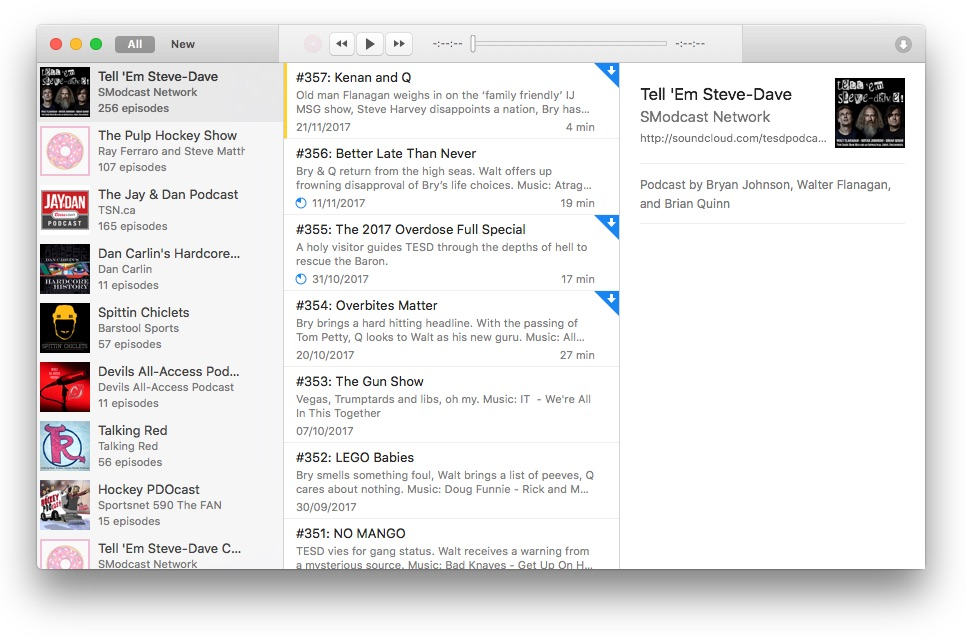
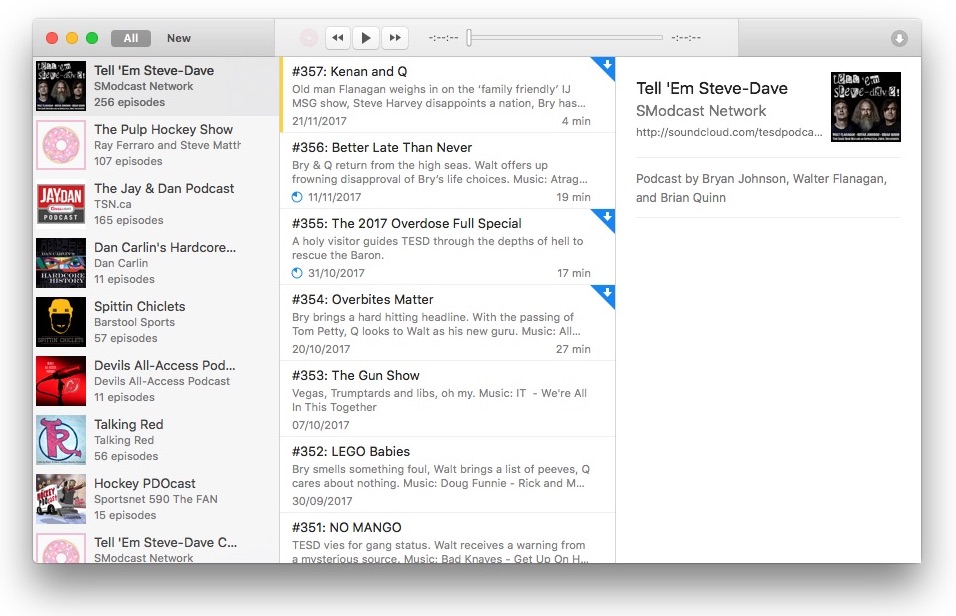
Update README.

Changed region(s): [[0.0303, 0.0308, 0.9707, 0.987], [0.5764, 0.4318, 0.6674, 0.4935]]

diff --git a/README.md b/README.md
@@ -1,5 +1,5 @@
 <h1 align="center">
-  <img src="https://github.com/CD1212/Doughnut/raw/master/src/assets/icon.png" alt="Doughnut" width="200">
+  <img src="https://github.com/CD1212/Doughnut/raw/master/Assets/icon.png" alt="Doughnut" width="200">
   <br>
   Doughnut
   <br>
@@ -12,7 +12,7 @@
 </p>
 
 <p align="center">
-  <img src="https://raw.githubusercontent.com/CD1212/Doughnut/master/screenshot.jpg?v=5" align="center" alt="screenshot" style="max-width:100%;" />
+  <img src="https://raw.githubusercontent.com/CD1212/Doughnut/master/screenshot.jpg?v=6" align="center" alt="screenshot" style="max-width:100%;" />
 </p>
 
 Doughnut is a podcast client built using Swift. The design and user experience are inspired by Instacast for Mac which was discontinued in 2015. After experimenting with alternate user interface layouts, I kept coming back to the three column layout as most useable and practical.
